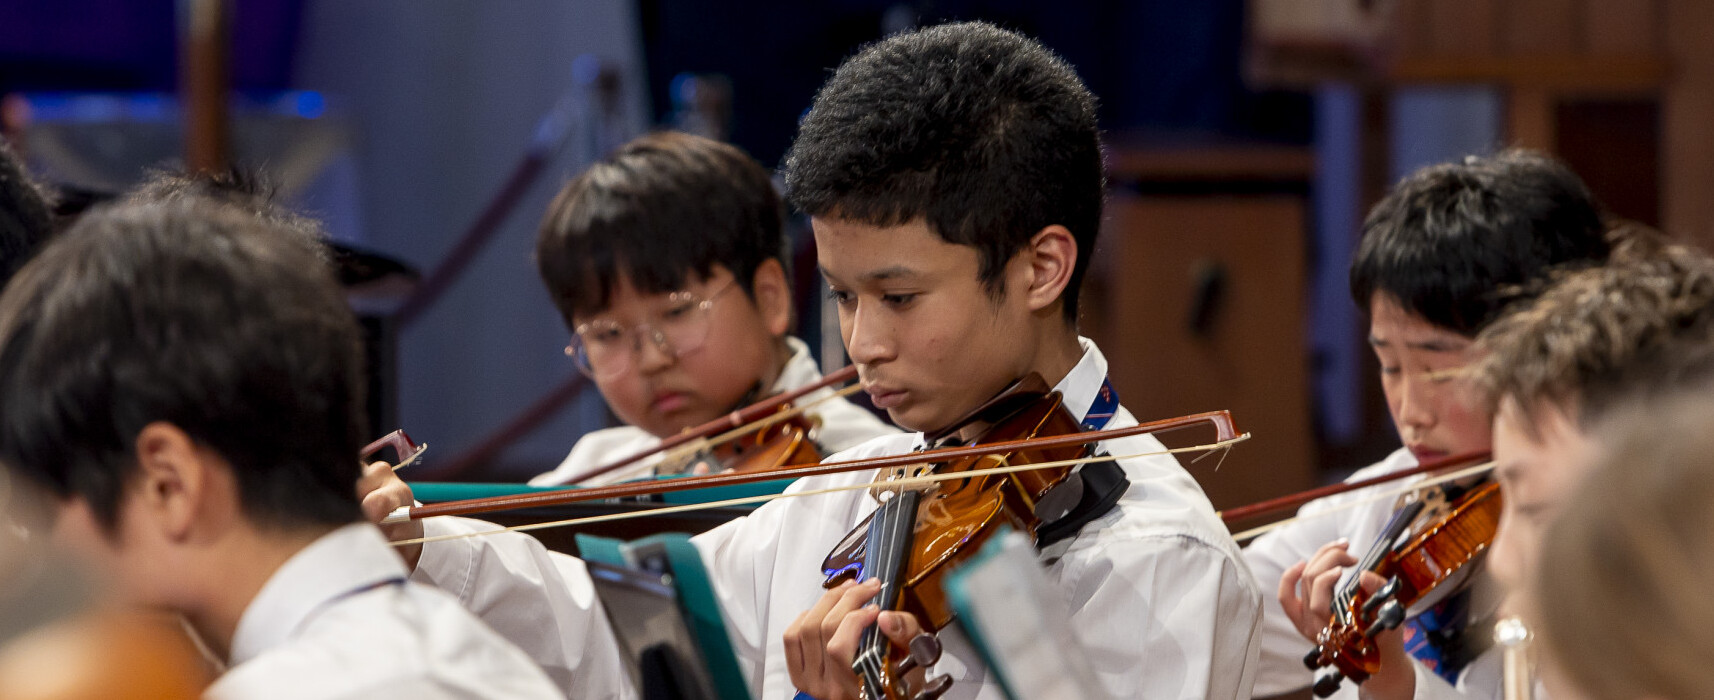
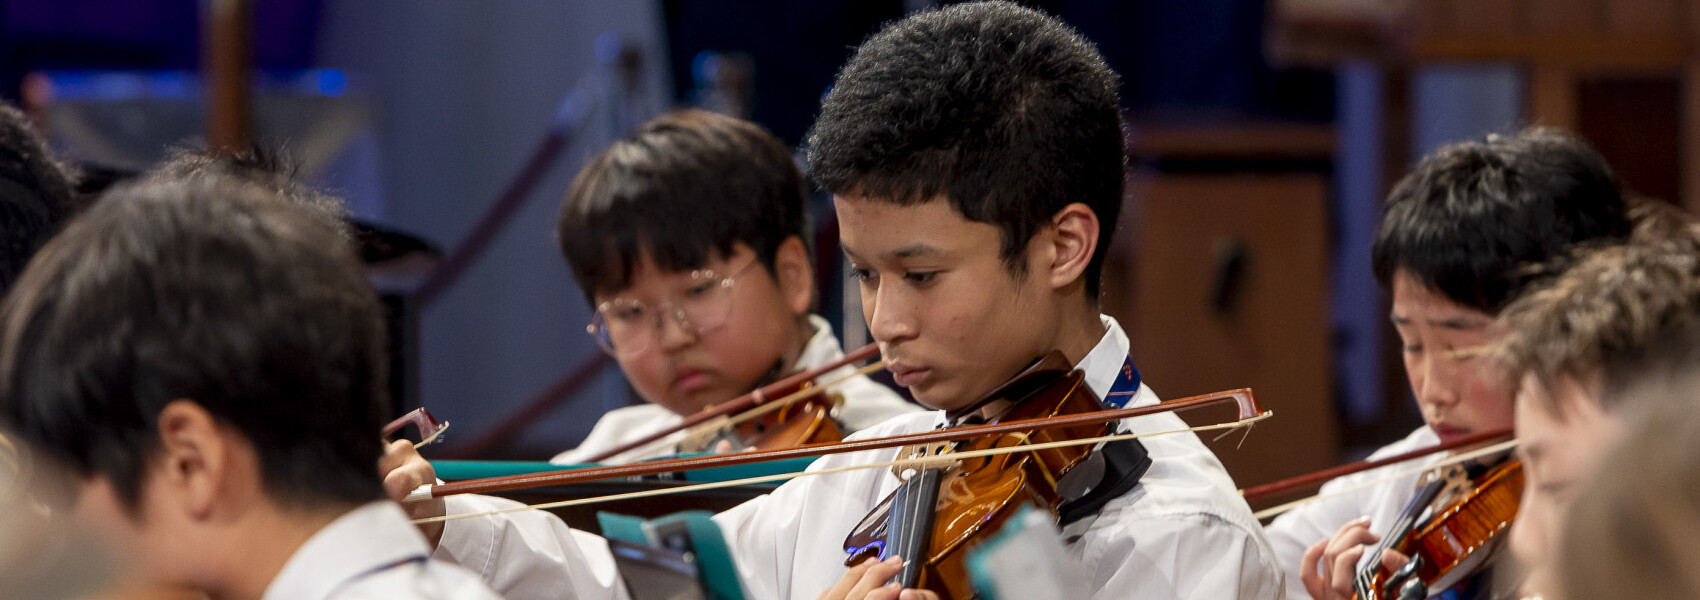
Changed carousel size

diff --git a/styles.css b/styles.css
@@ -19,7 +19,9 @@ footer {
   background-color: rgb(0, 64, 162);
 }
   ul {
-    text-align: center;
+    display: flex;
+    align-items: center;
+    justify-content: center;
     list-style-type: none;
     margin: 0;
     padding: 0;
@@ -66,7 +68,7 @@ footer {
   /* Slideshow container */
   .slideshow-container {
     width: 100%;
-    height: 700px;
+    height: 500px;
     position: relative;
   }
   
